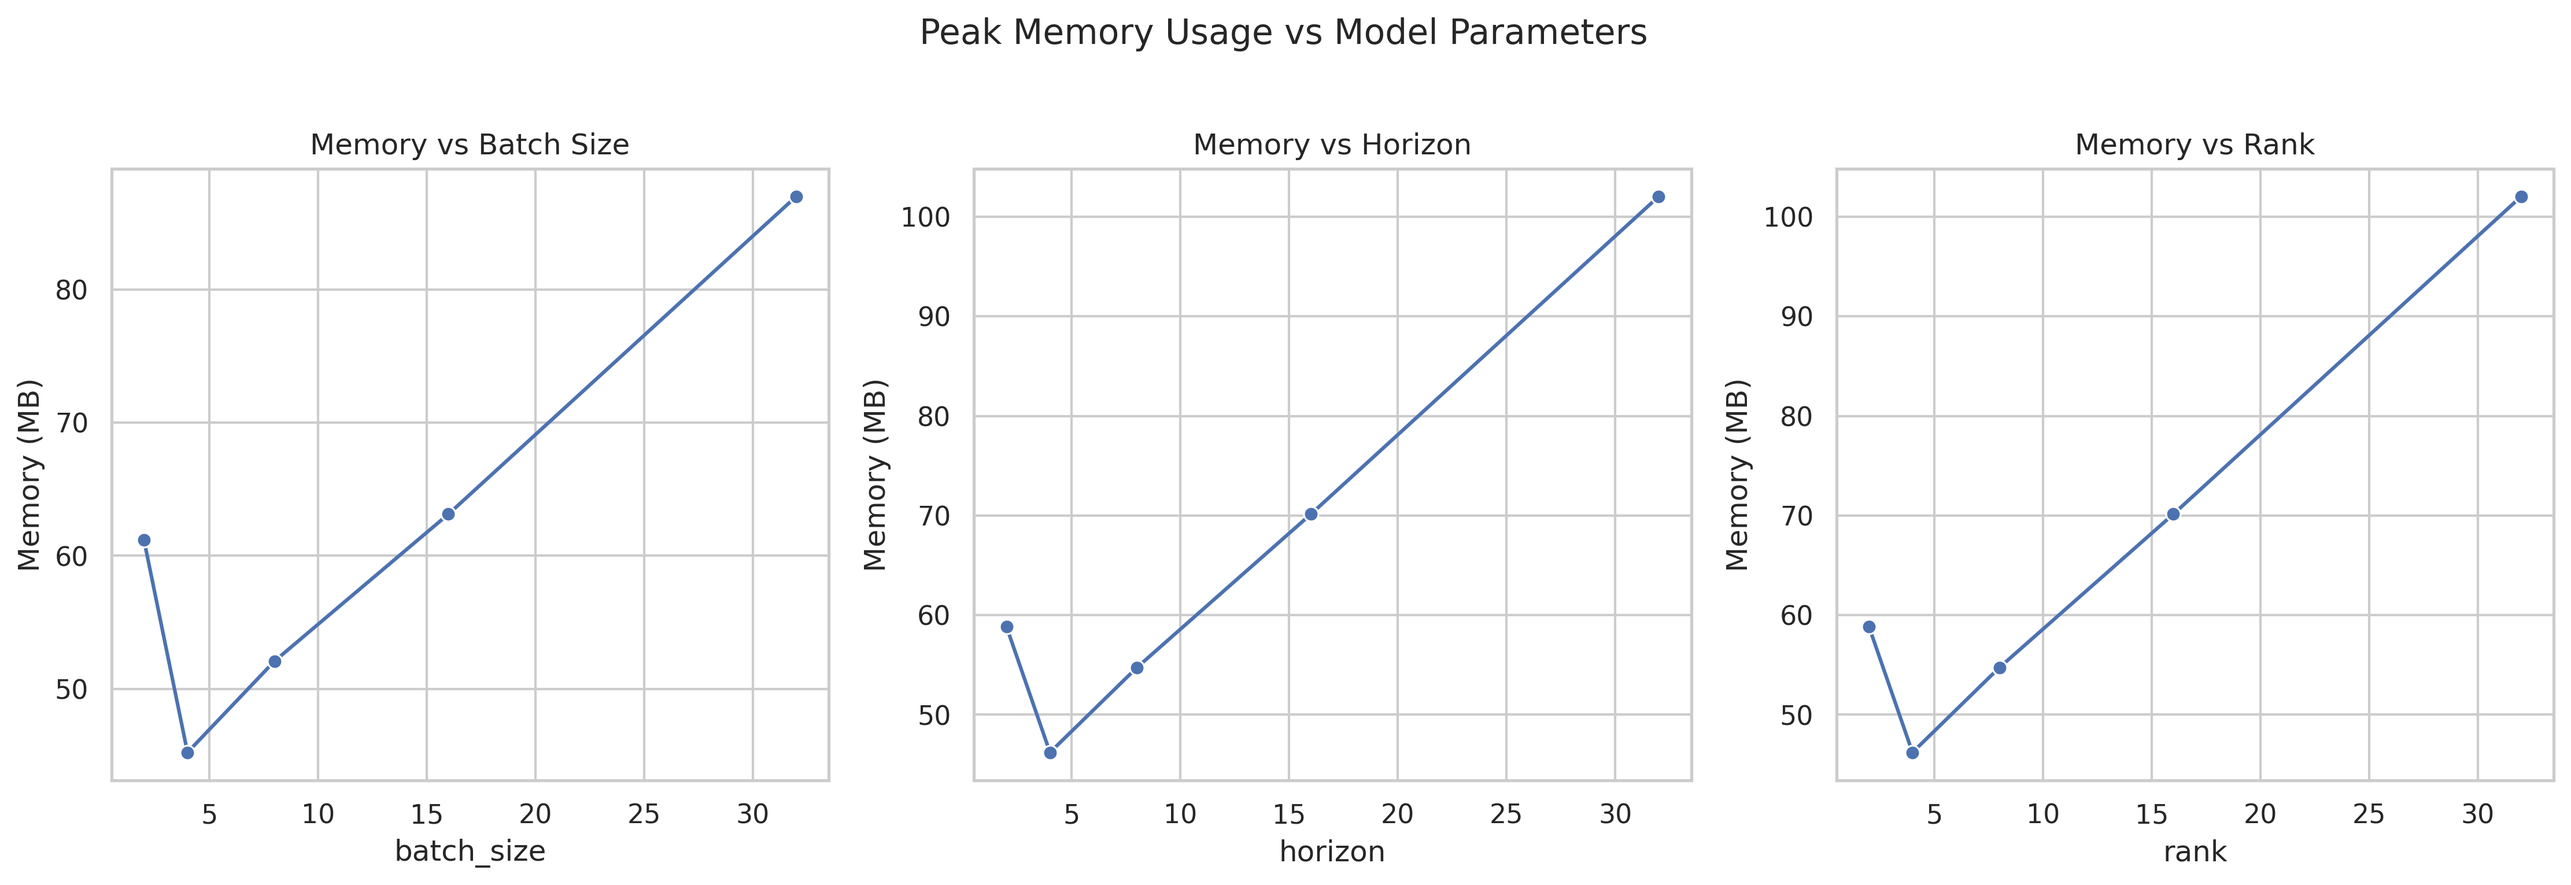
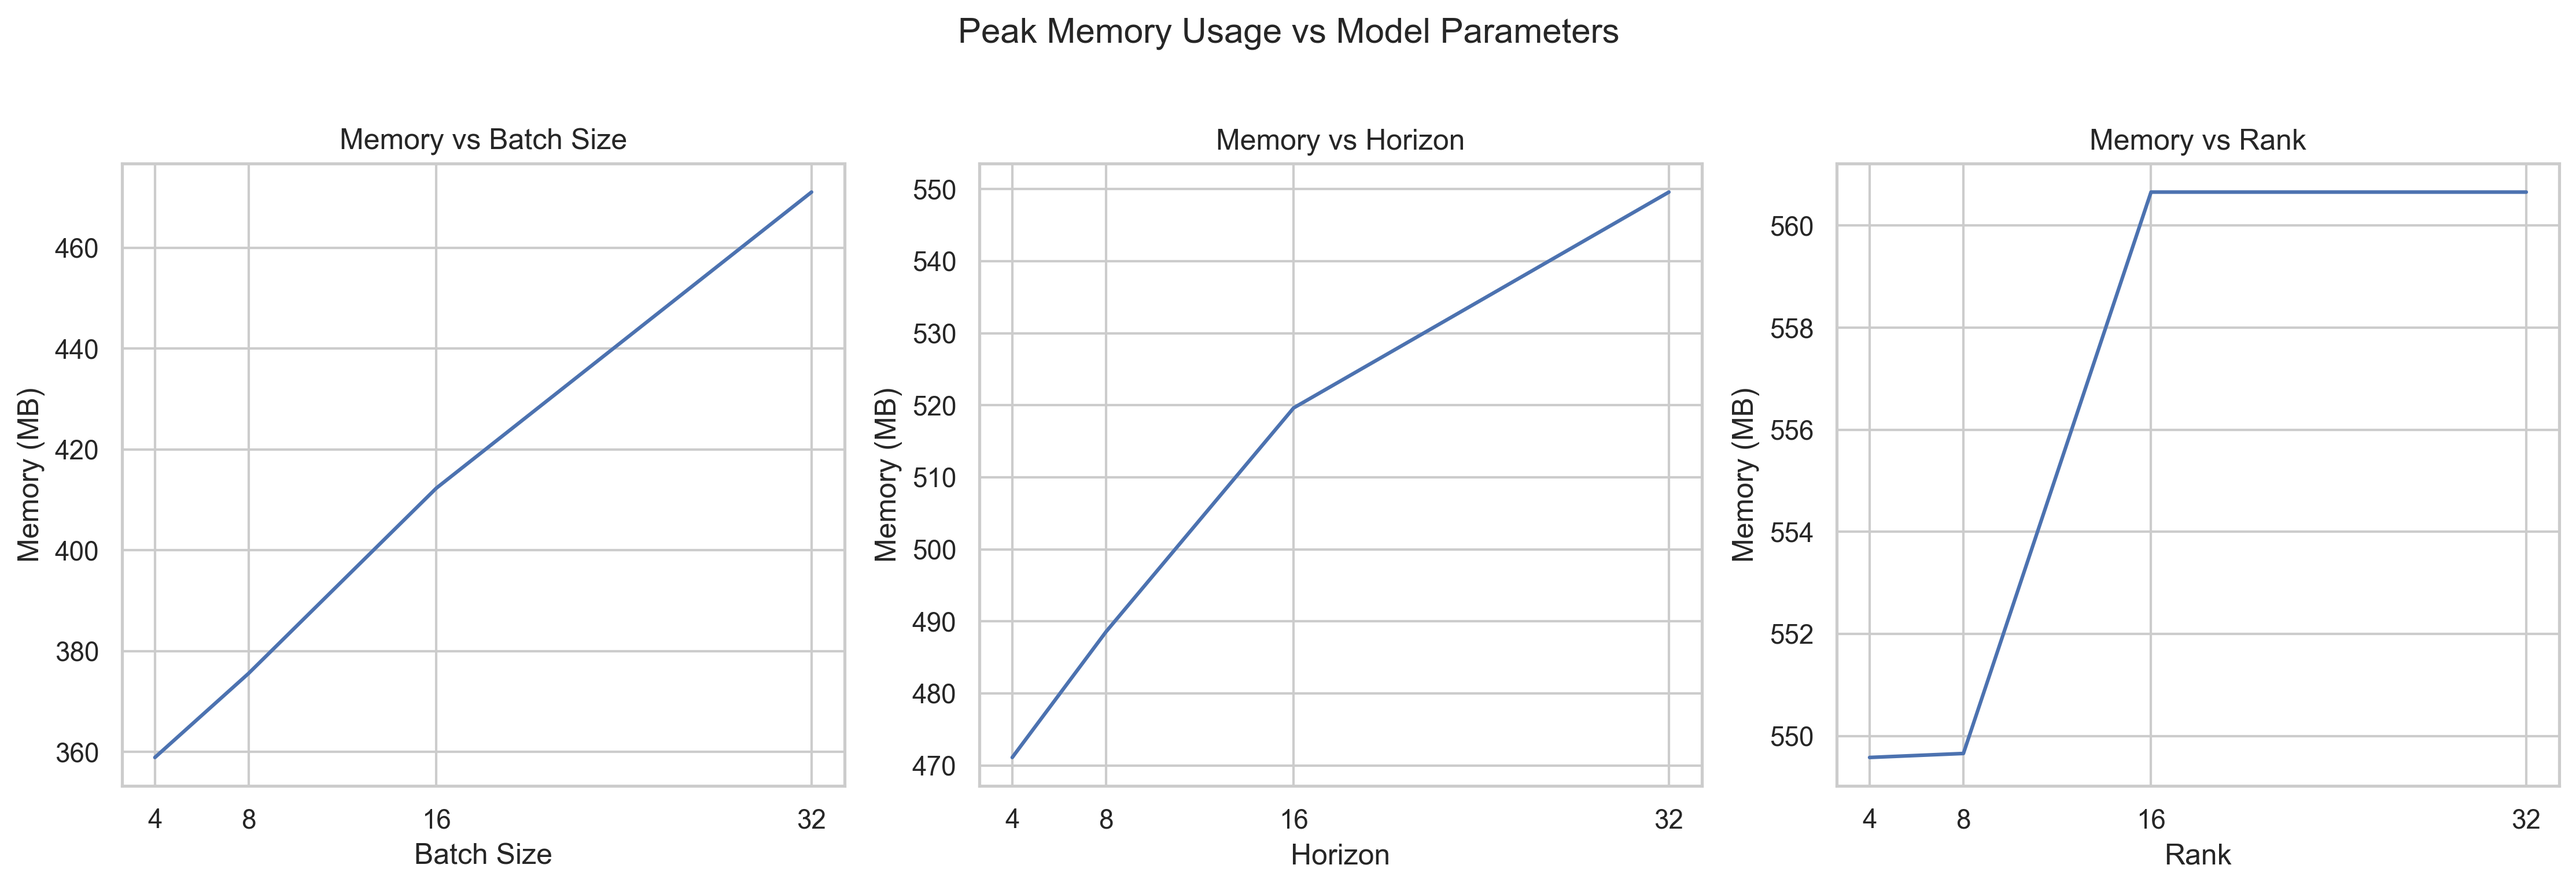
Simplify memory plot

diff --git a/scripts/plot_mhead_memory.py b/scripts/plot_mhead_memory.py
@@ -9,25 +9,22 @@ import torch
 import gc
 from tjdnet.distributions._base import BaseDistConfig
 from tjdnet.distributions.cp import CPDist
+from utils.perf import get_peak_memory_usage
 
 
-def measure_memory_usage(
-    batch_size,
-    horizon,
-    rank,
+sns.set_theme(style="whitegrid")
+
+
+def cp_forward(
+    batch_size: int,
+    horizon: int,
+    rank: int,
     embedding_dim=256,
     vocab_size=30000,
-    backward=False,
+    backward: bool = False,
 ):
     """Measure peak memory usage for a single configuration."""
     device = "cuda" if torch.cuda.is_available() else "cpu"
-
-    # Setup
-    if device == "cuda":
-        torch.cuda.empty_cache()
-        torch.cuda.reset_peak_memory_stats()
-
-    # Create model and run forward pass
     config = BaseDistConfig(
         vocab_size=vocab_size,
         horizon=horizon,
@@ -42,81 +39,59 @@ def measure_memory_usage(
     if backward:
         loss.backward()
 
-    # Measure memory
-    if device == "cuda":
-        memory_mb = torch.cuda.max_memory_allocated() / (1024**2)
-        torch.cuda.empty_cache()
-    else:
-        import psutil
 
-        memory_mb = psutil.Process().memory_info().rss / (1024**2)
-
-    # reset peak memory stats
-    if device == "cuda":
-        torch.cuda.reset_peak_memory_stats()
-    else:
-        import psutil
-
-        psutil.Process().memory_info().rss
-
-    gc.collect()
-    return memory_mb
-
-
-def generate_data():
-    """Generate memory data for different parameters."""
-    data = []
-
+if __name__ == "__main__":
+    # Set up parameters
     defaults = {
         "batch_size": 2,
         "horizon": 2,
         "rank": 2,
         "embedding_dim": 256,
         "vocab_size": 30000,
+        "backward": False,
     }
-
     variables = {
-        "batch_size": [2, 4, 8, 16, 32],
-        "horizon": [2, 4, 8, 16, 32],
-        "rank": [2, 4, 8, 16, 32],
+        "batch_size": [2, 4, 8, 16],
+        "horizon": [2, 4, 8, 16],
+        "rank": [2, 4, 8, 16],
     }
+    device = "cuda" if torch.cuda.is_available() else "cpu"
 
+    # Compute memory usage
+    data = []
     for param, values in variables.items():
         for value in values:
             kwargs = defaults.copy()
-            kwargs[param] = value
-            memory = measure_memory_usage(**kwargs)
+            kwargs[param] = kwargs[param] * value
+            model = cp_forward(**kwargs)
+            memory = get_peak_memory_usage(cp_forward, device=device, **kwargs)
             data.append({**kwargs, "memory_mb": memory})
+    df = pd.DataFrame(data)
 
-    return pd.DataFrame(data)
-
-
-def plot_memory_usage(df, save_path="results/plots/memory_usage_facetgrid.png"):
-    """Create seaborn visualization of memory usage."""
-    sns.set_theme(style="whitegrid")
-
-    # Create subplots for each parameter
+    # Plot memory usage
+    save_path = "results/plots/memory_usage_facetgrid.png"
     fig, axes = plt.subplots(1, 3, figsize=(15, 5))
 
     for i, param in enumerate(["batch_size", "horizon", "rank"]):
+        # Filter out rows where other two parameters are not at defaults
+        fixed_params = {k: v for k, v in defaults.items() if k != param}
+        df_filtered = df.copy()
+        for fixed_param, fixed_value in fixed_params.items():
+            df_filtered = df_filtered[df_filtered[fixed_param] == fixed_value]
+
         sns.lineplot(
-            data=df.groupby(param)["memory_mb"].mean().reset_index(),
+            data=df_filtered,
             x=param,
             y="memory_mb",
-            marker="o",
             ax=axes[i],
         )
         axes[i].set_title(f'Memory vs {param.replace("_", " ").title()}')
         axes[i].set_ylabel("Memory (MB)")
+        axes[i].set_xlabel(param.replace("_", " ").title())
+        axes[i].set_xticks(sorted(df_filtered[param].unique()))
 
     plt.suptitle("Peak Memory Usage vs Model Parameters", y=1.02)
     plt.tight_layout()
 
     os.makedirs(os.path.dirname(save_path), exist_ok=True)
     plt.savefig(save_path, dpi=300, bbox_inches="tight")
-    plt.show()
-
-
-if __name__ == "__main__":
-    df = generate_data()
-    plot_memory_usage(df)

diff --git a/utils/perf.py b/utils/perf.py
@@ -1,0 +1,29 @@
+from typing import Callable
+import torch
+import psutil
+
+
+def get_peak_memory_usage(fn: Callable, device: str = "cuda", **kwargs) -> float:
+    """Get the peak memory usage of a function.
+
+    Args:
+        fn (Callable): The function to measure the memory usage of.
+        device (str): The device to measure the memory usage on.
+        kwargs (dict): The keyword arguments to pass to the function.
+
+    Returns:
+        float: The peak memory usage of the function in MB.
+    """
+    if device == "cuda":
+        torch.cuda.empty_cache()
+        torch.cuda.reset_peak_memory_stats()
+
+    fn(**kwargs)
+
+    if device == "cuda":
+        memory_mb = torch.cuda.max_memory_allocated() / (1024**2)
+        torch.cuda.empty_cache()
+    else:
+        memory_mb = psutil.Process().memory_info().rss / (1024**2)
+
+    return memory_mb
